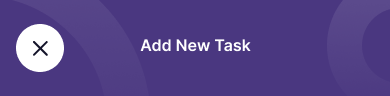
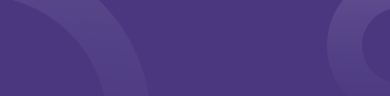
FoldersAdded

Changed region(s): [[0.0308, 0.25, 0.1846, 0.75], [0.3385, 0.4062, 0.6462, 0.5312]]

diff --git a/lib/screens/home.dart b/lib/screens/home.dart
@@ -18,6 +18,8 @@ class _HomeScreenState extends State<HomeScreen> {
   //List<String> todoList = ["Study Lesson", "Run 5k", "Go To Party"];
   //List<String> completedTodoList = ["Game meetup", "trash move out"];
 
+  // final now = DateTime.now();
+
   List<Task> todoList = [
     Task(
       type: TaskType.note,
@@ -81,30 +83,30 @@ class _HomeScreenState extends State<HomeScreen> {
                     image: AssetImage("lib/assets/images/header.png"),
                     fit: BoxFit.cover,
                   )),
-              // child: const Column(
-              //   children: [
-              //     Padding(
-              //       padding: EdgeInsets.only(top: 20),
-              //       child: Text(
-              //         "23.03.2024",
-              //         style: TextStyle(
-              //             color: Colors.white,
-              //             fontSize: 20,
-              //             fontWeight: FontWeight.bold),
-              //       ),
-              //     ),
-              //     Padding(
-              //       padding: EdgeInsets.only(top: 40),
-              //       child: Text(
-              //         "Todo App",
-              //         style: TextStyle(
-              //             color: Colors.white,
-              //             fontSize: 30,
-              //             fontWeight: FontWeight.bold),
-              //       ),
-              //     ),
-              //   ],
-              // ),
+              child: const Column(
+                children: [
+                  Padding(
+                    padding: EdgeInsets.only(top: 20),
+                    child: Text(
+                      "Sentyabr 02,2024",
+                      style: TextStyle(
+                          color: Colors.white,
+                          fontSize: 20,
+                          fontWeight: FontWeight.bold),
+                    ),
+                  ),
+                  Padding(
+                    padding: EdgeInsets.only(top: 40),
+                    child: Text(
+                      "Todo App",
+                      style: TextStyle(
+                          color: Colors.white,
+                          fontSize: 30,
+                          fontWeight: FontWeight.bold),
+                    ),
+                  ),
+                ],
+              ),
             ),
             //Top column
             Expanded(

diff --git a/lib/screens/add_new_task.dart b/lib/screens/add_new_task.dart
@@ -58,16 +58,16 @@ class _AddNewTaskScreenState extends State<AddNewTaskScreen> {
                         color: Colors.white,
                       ),
                     ),
-                    // const Expanded(
-                    //   child: Text(
-                    //     "Add new task",
-                    //     style: TextStyle(
-                    //         color: Colors.white,
-                    //         fontWeight: FontWeight.bold,
-                    //         fontSize: 21),
-                    //     textAlign: TextAlign.center,
-                    //   ),
-                    // )
+                    const Expanded(
+                      child: Text(
+                        "Add new task",
+                        style: TextStyle(
+                            color: Colors.white,
+                            fontWeight: FontWeight.bold,
+                            fontSize: 21),
+                        textAlign: TextAlign.center,
+                      ),
+                    ),
                   ],
                 ),
               ),

diff --git a/lib/main.dart b/lib/main.dart
@@ -16,6 +16,8 @@ class _MyAppState extends State<MyApp> {
   @override
   Widget build(BuildContext context) {
     return const MaterialApp(
-        debugShowCheckedModeBanner: false, home: HomeScreen());
+      debugShowCheckedModeBanner: false,
+      home: HomeScreen(),
+    );
   }
 }
